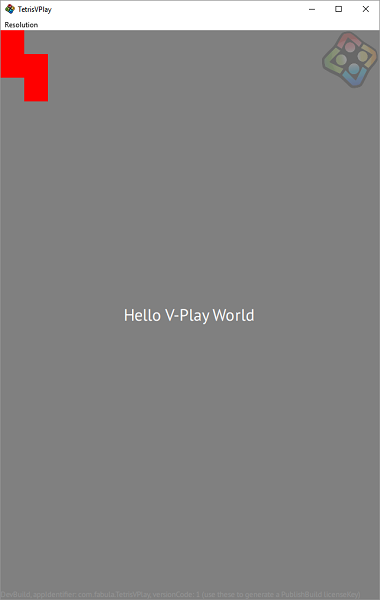
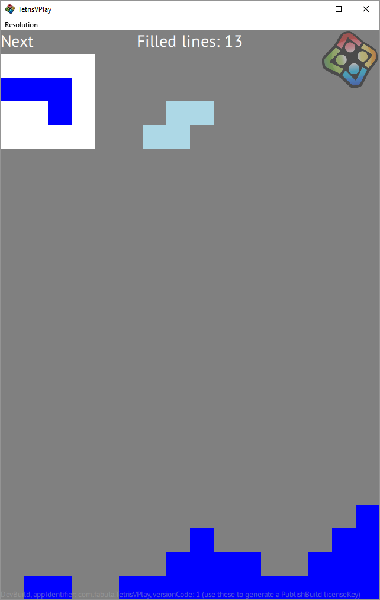
added check for cells on move to left or right of current figure final changes in first simple version

diff --git a/qml/Main.qml b/qml/Main.qml
@@ -143,6 +143,8 @@ GameWindow {
 
         Keys.onLeftPressed: {
             if ( lastFigure ) {
+                if ( !canMoveToLeft(lastFigure) )
+                    return
                 var cell = scene.mostLeftFigureCell(lastFigure)
                 var mostLeft = lastFigure.cellX + cell.cellX
                 if ( mostLeft > 0)
@@ -151,6 +153,8 @@ GameWindow {
         }
         Keys.onRightPressed: {
             if ( lastFigure ) {
+                if ( !canMoveToRight(lastFigure) )
+                    return
                 var cell = scene.mostRightFigureCell(lastFigure)
                 var mostRight = lastFigure.cellX + cell.cellX
                 if ( mostRight < scene.gridWidth-1)
@@ -265,6 +269,30 @@ GameWindow {
             return max
         }
 
+        function canMoveToLeft(figure) {
+            var canMove = true
+            for(var j=0;j<figure.children.length;j++){
+                var cell = figure.children[j]
+                if ( scene.hasCellOnLeft(cell) ) {
+                    canMove = false
+                    break;
+                }
+            }
+            return canMove
+        }
+
+        function canMoveToRight(figure) {
+            var canMove = true
+            for(var j=0;j<figure.children.length;j++){
+                var cell = figure.children[j]
+                if ( scene.hasCellOnRight(cell) ) {
+                    canMove = false
+                    break;
+                }
+            }
+            return canMove
+        }
+
         function isFigureDown(figure) {
             var isDown = false
             for(var j=0;j<figure.children.length;j++){
@@ -306,20 +334,36 @@ GameWindow {
         function isCellDown(cell) {
             var absX = cell.cellX + cell.parent.cellX
             var absY = cell.cellY + cell.parent.cellY
-            if ( scene.cellsTable[absX + (absY+1) * scene.gridWidth] != 0) {
+            if ( hasCellOnPosition(absX, absY+1)) {
                 return true;
             }
 
             return ((absY + 1) == scene.gridHeigth)
         }
 
-        function hasCellUnder(cell) {
-            var absX = cell.cellX + cell.parent.cellX
-            var absY = cell.cellY + cell.parent.cellY
-            if ( scene.cellsTable[absX + absY * scene.gridWidth] != 0) {
+        function hasCellOnPosition(x, y) {
+            if ( scene.cellsTable[x + y * scene.gridWidth] != 0) {
                 return true;
             } else
                 return false;
+        }
+
+        function hasCellOnLeft(cell) {
+            var absX = cell.cellX + cell.parent.cellX
+            var absY = cell.cellY + cell.parent.cellY
+            return hasCellOnPosition(absX-1, absY)
+        }
+
+        function hasCellOnRight(cell) {
+            var absX = cell.cellX + cell.parent.cellX
+            var absY = cell.cellY + cell.parent.cellY
+            return hasCellOnPosition(absX+1, absY)
+        }
+
+        function hasCellUnder(cell) {
+            var absX = cell.cellX + cell.parent.cellX
+            var absY = cell.cellY + cell.parent.cellY
+            return hasCellOnPosition(absX, absY)
         }
 
         function checkForFilledLines() {
@@ -356,7 +400,10 @@ GameWindow {
                         scene.cellsTable[x + y * scene.gridWidth] = 0
                     else {
                         scene.cellsTable[x + y * scene.gridWidth] = scene.cellsTable[x + (y-1) * scene.gridWidth]
-                        scene.cellsTable[x + y * scene.gridWidth].cellY++
+                        var cellToMove = scene.cellsTable[x + y * scene.gridWidth]
+                        if ( cellToMove ) {
+                            cellToMove.cellY++
+                        }
                     }
                 }
             }

diff --git a/qml/Figure.qml b/qml/Figure.qml
@@ -6,7 +6,7 @@ Rectangle {
     id: figure
 
     property bool backVisible: false
-    property color cellsColor: "blue"
+    property color cellsColor: "lightblue"
     property int cellSize: 20
     property int cellX: 0
     property int cellY: 0
@@ -51,7 +51,6 @@ Rectangle {
     }
 
     function nextType() {
-        console.debug(Math.random()*7 + " " + Math.random())
         type = Math.random() * 7
     }
 

diff --git a/qml/Cell.qml b/qml/Cell.qml
@@ -4,7 +4,7 @@ import QtQuick 2.0
 
 Rectangle {
     id: item
-    color: "red"
+    color: "blue"
 
     property int cellSize: 20
     property int cellX: 0
